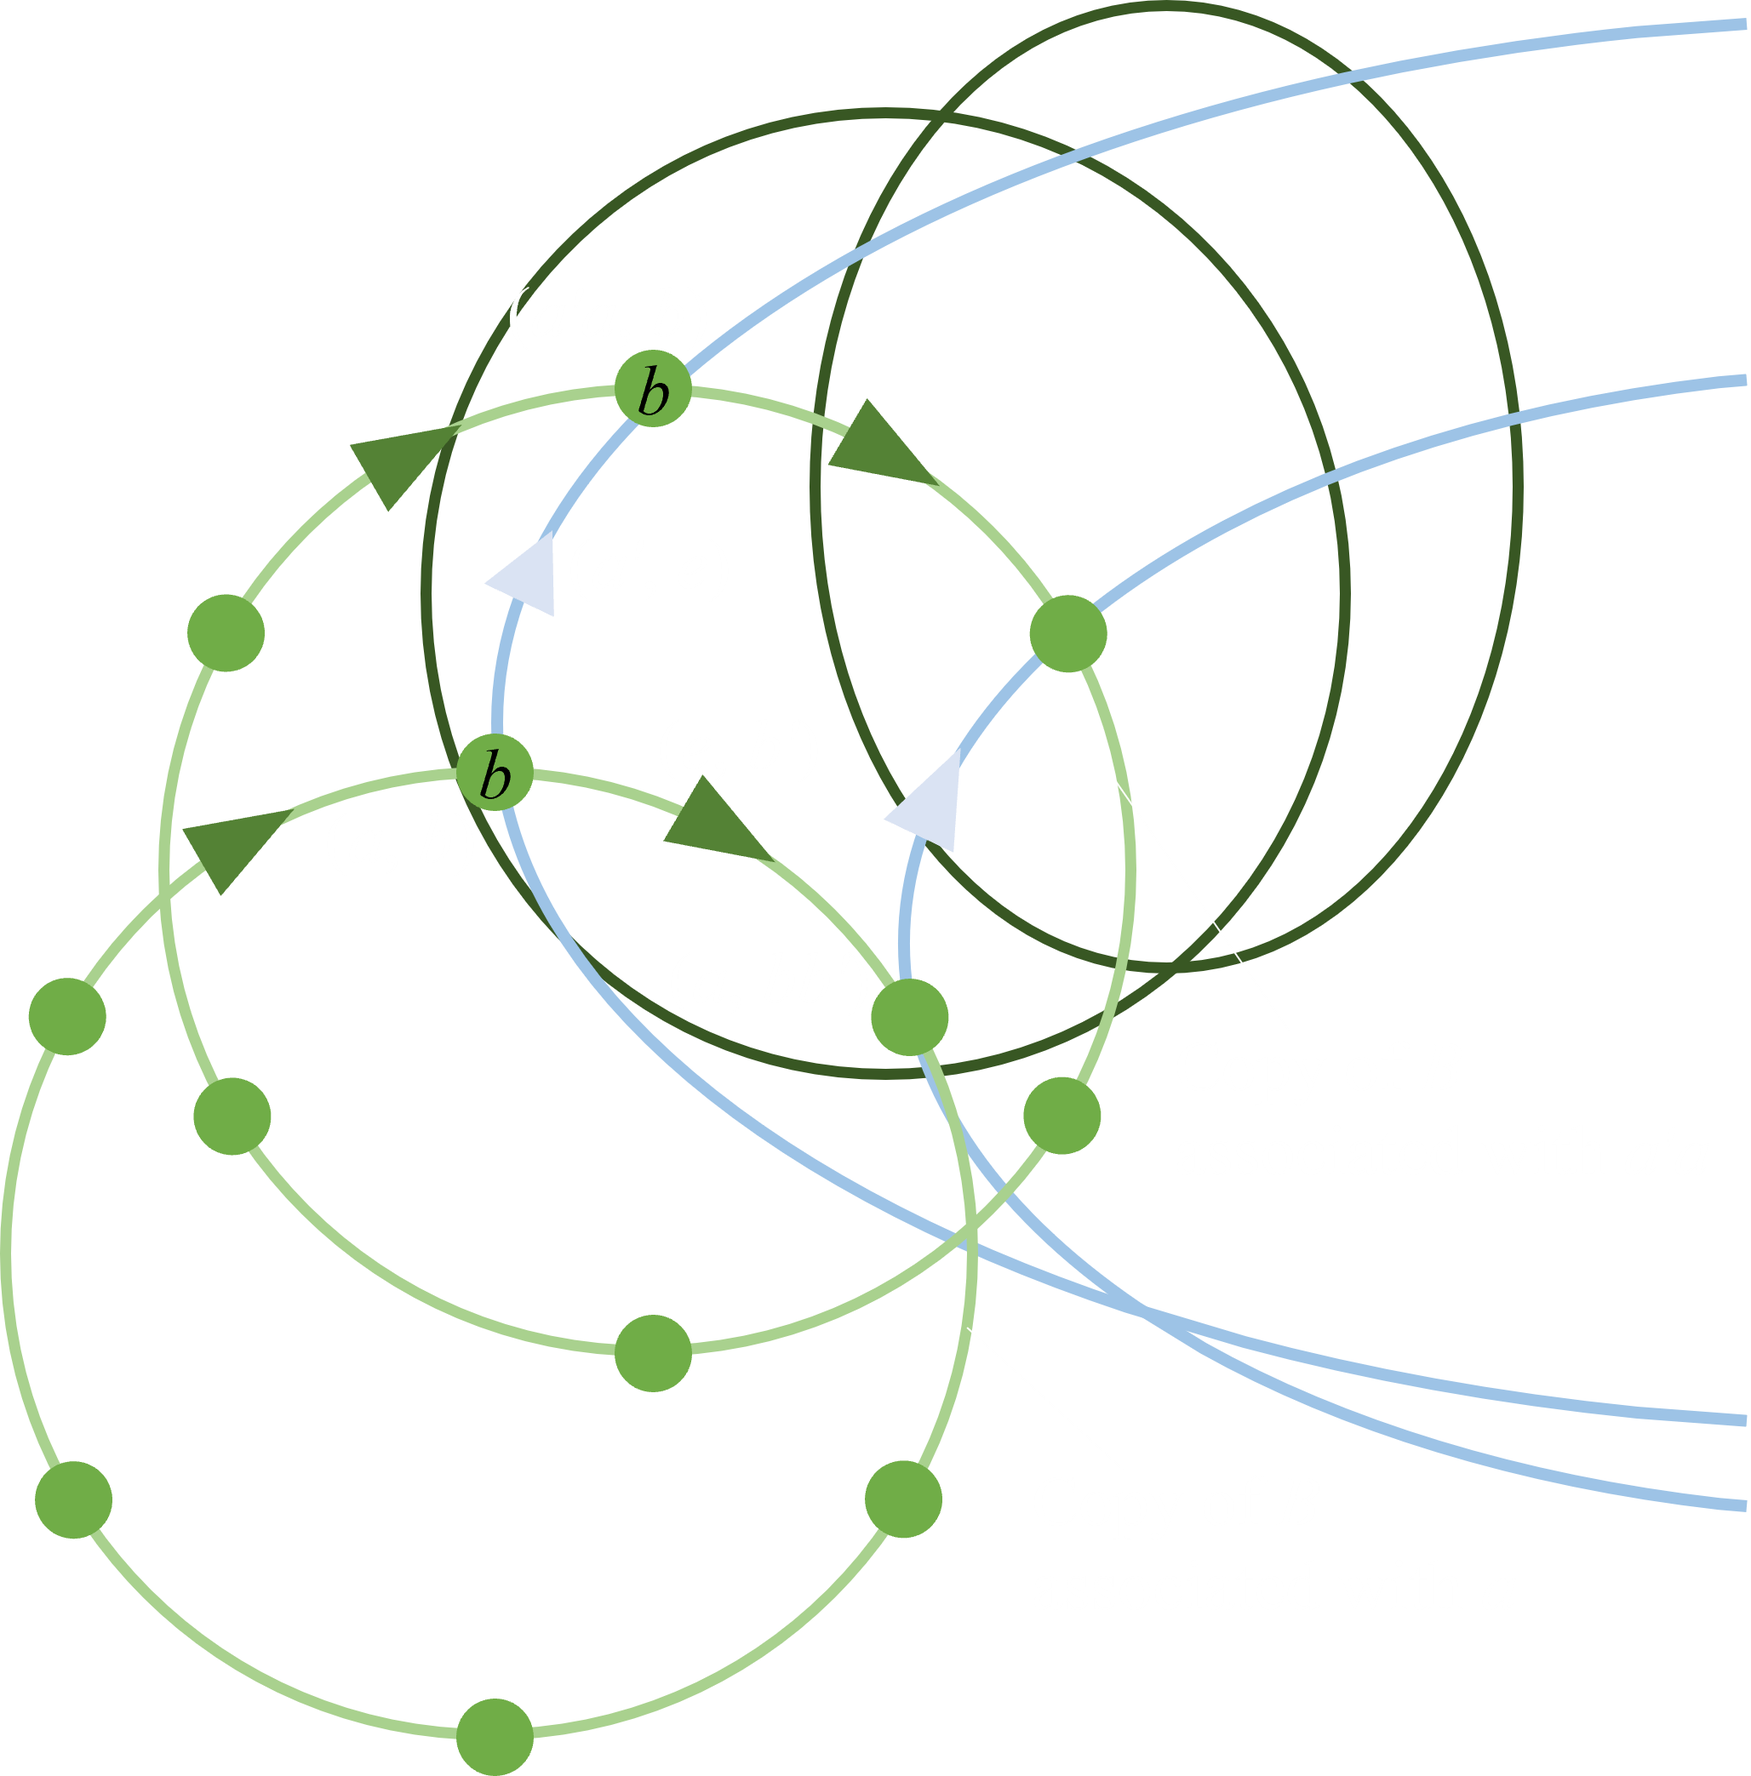
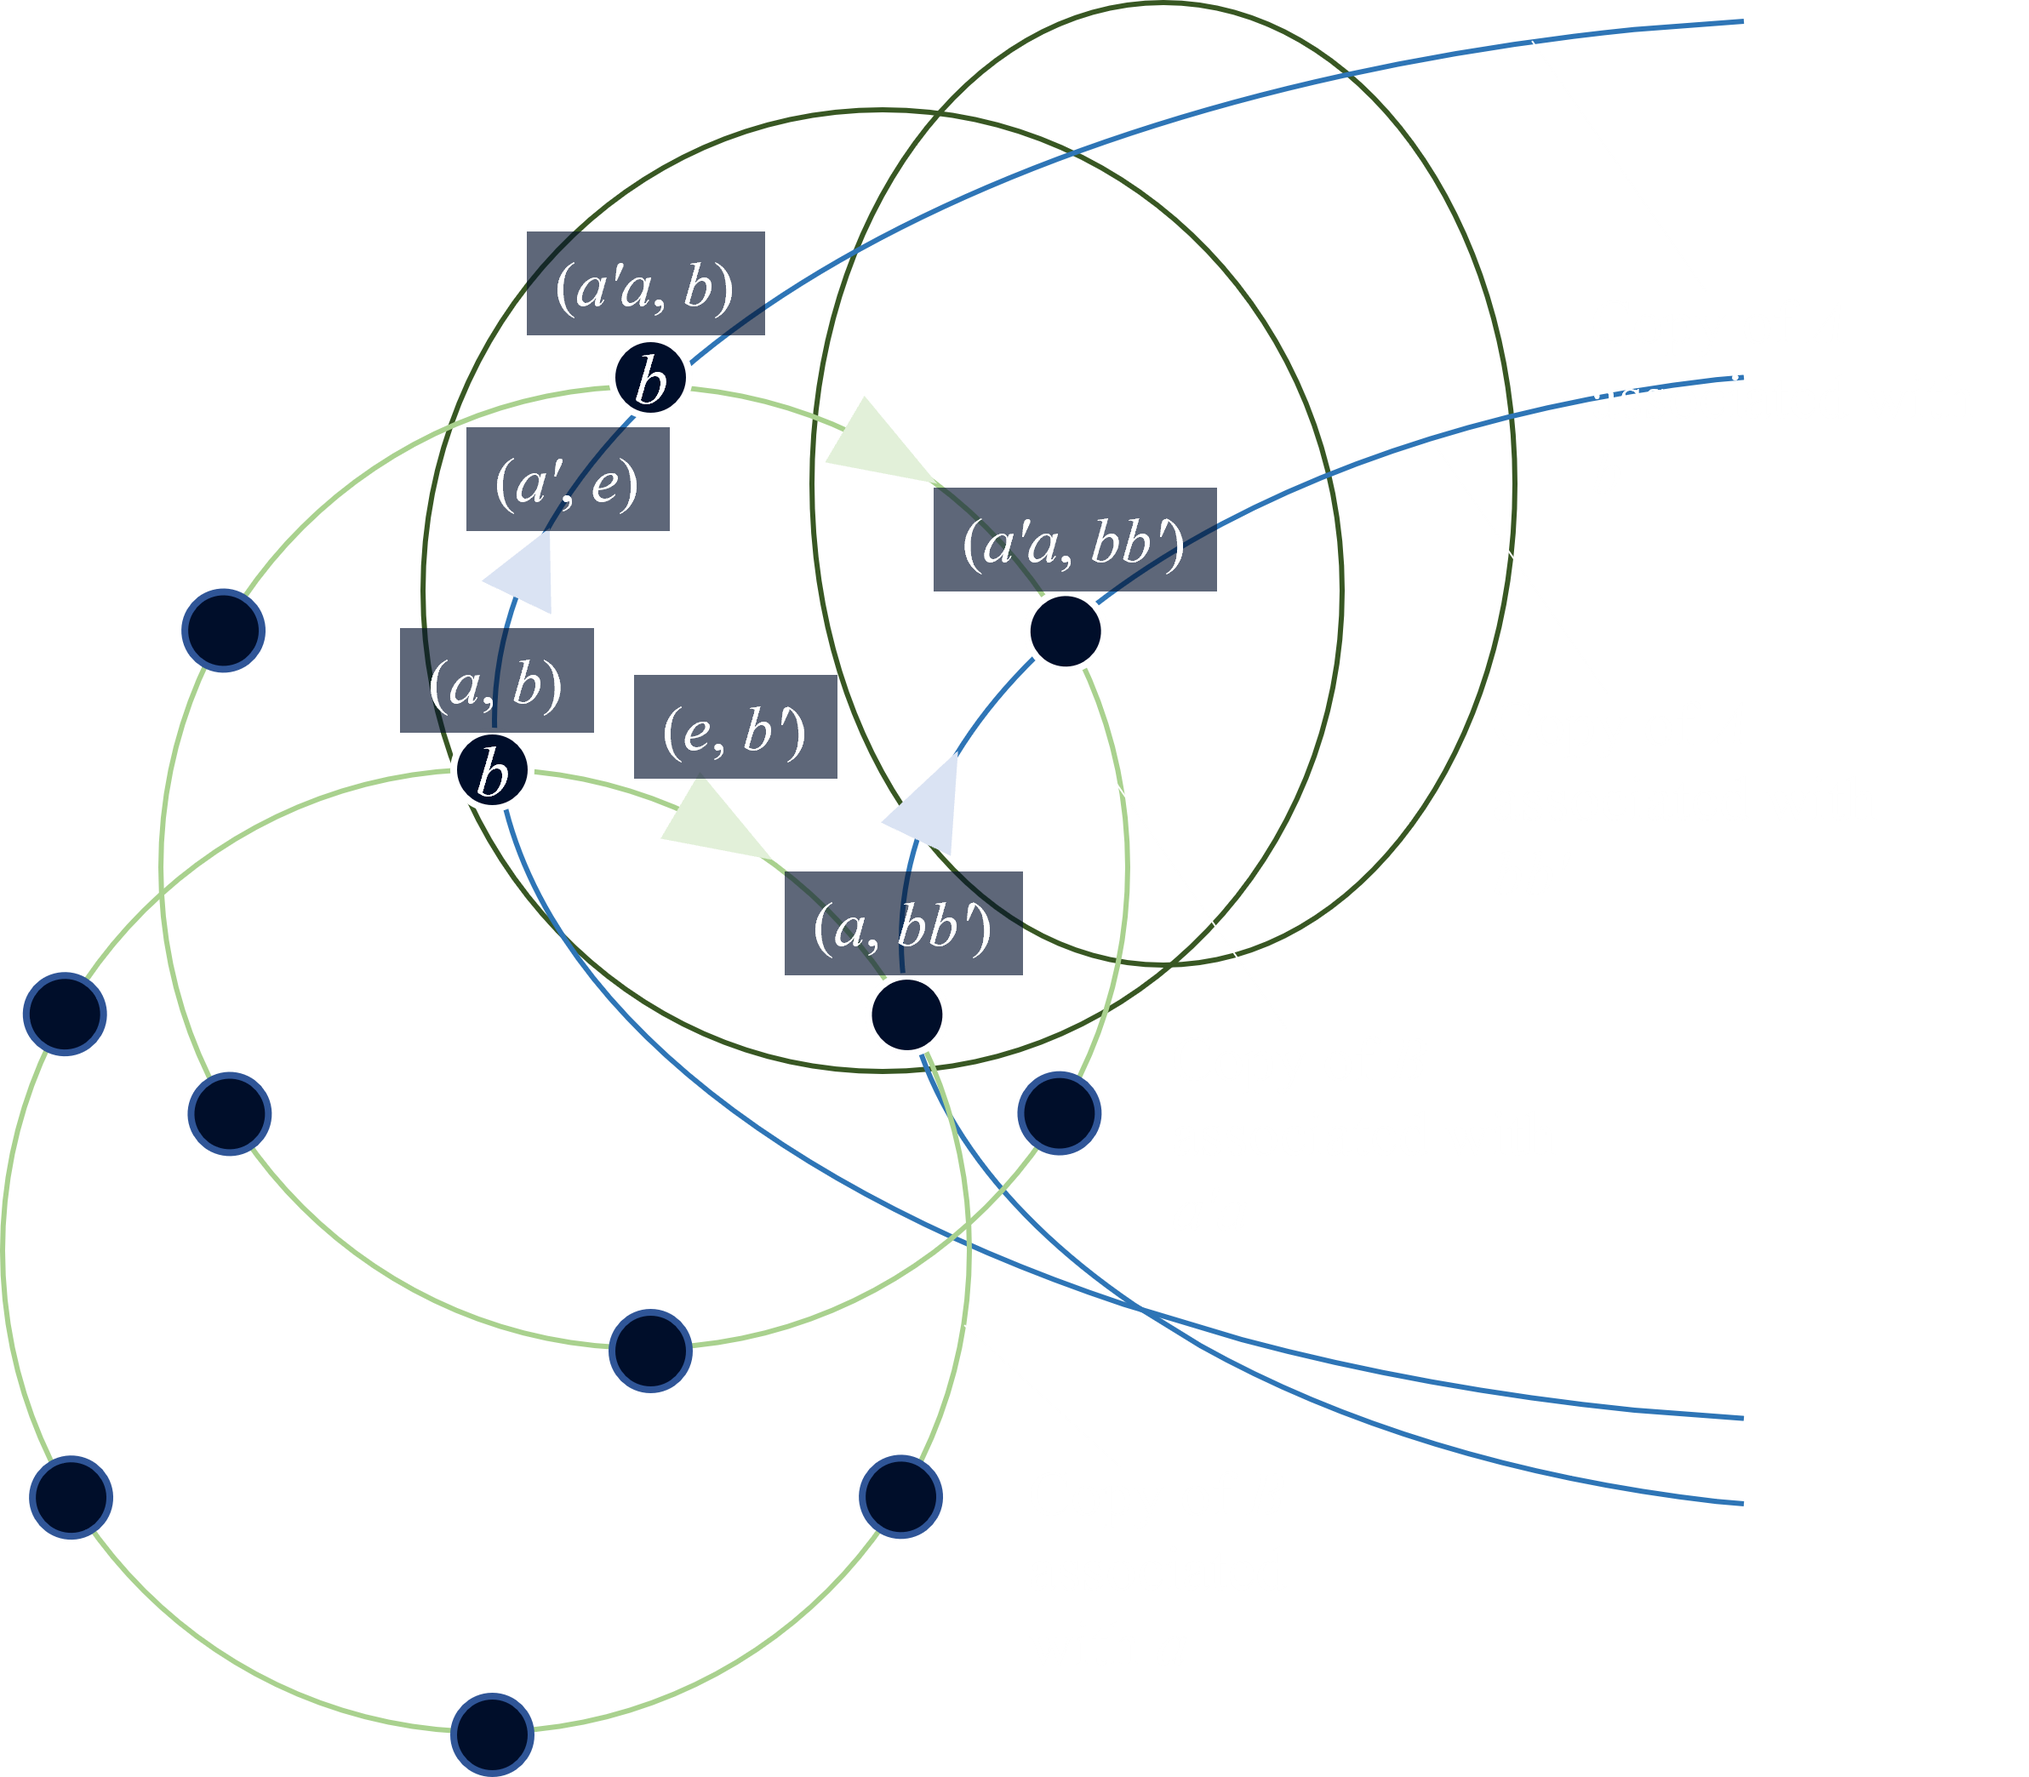
WIP

diff --git a/_posts/2023-07-15-plotting-cayley-graphs.md b/_posts/2023-07-15-plotting-cayley-graphs.md
@@ -239,7 +239,7 @@ window.addEventListener("load", () =>
           const pltt = plot2(rot4, G1, "60_5");
           const linkforcectxx = pltt.d3Force('link');
           const a = window.setInterval(() => {
-            linkforcectxx.distance(d => [0, 200][d.group]);
+            linkforcectxx.distance(d => [0, 280][d.group]);
             pltt.d3ReheatSimulation()
           }, 6000);
           const woof = window.setInterval(() => {
@@ -254,6 +254,26 @@ window.addEventListener("load", () =>
         const d1 = document.getElementById("plot-direct-1")
         attach(onVisibilityChange(d1, function() {
           plot(d1, "200_37")
+        }));
+
+        const d2 = document.getElementById("plot-semi-2")
+        attach(onVisibilityChange(d2, function() {
+          const plt = plot(d2, "12_4")
+        }));
+
+        const d3 = document.getElementById("plot-semi-1")
+        attach(onVisibilityChange(d3, function() {
+          [_gmat, _fp] = matrep["12_5"];
+          _G = create_group(_gmat, _fp);
+          _Ggens = _G.gens;
+          _Ggens = [_Ggens[1], _Ggens[0]];
+          const G1 = new Group(_Ggens.map((g) => g.mat));
+          const plt = plot2(d3, G1, "12_5");
+        }));
+
+        const d4 = document.getElementById("plot-semi-3")
+        attach(onVisibilityChange(d4, function() {
+          const plt = plot(d4, "208_3")
         }));
       })
     )
@@ -408,8 +428,6 @@ Do note that the Cayley graph for a group might not look unique, and is highly d
 
 Say you start with a square and consider the set of rotations that fixes the position of the vertices.
 
-<!--TODO: Hand drawn image-->
-
 The rotations consist of rotating 0, 90, 180, and 270 degrees. These rotations form a group, the cyclic group $C_4$, generated by 90 degree rotations. This is known as the _rotation group_ of a square. The Cayley Graph of this rotation group looks exactly like a square:
 
 <div class="cayley-container">
@@ -424,9 +442,7 @@ Similarly to the square example, the Cayley Graph of the rotation group of a reg
 
 Does this observation extend to 3D? To put it precisely, are the finite subgroups of $\mathrm{SO}(3)$ rotation groups of some 3D shape, and do the Cayley Graphs of these rotation groups resemble the underlying 3D shape? 
 
-$\mathrm{SO}(2)$ is contained in $\mathrm{SO}(3)$, i.e., the set of 2D rotations can be found in the set of 3D rotations. So the finite subgroups of $\mathrm{SO}(3)$ would contain the cyclic groups $C_n$. In addition, $\mathrm{SO}(3)$ contains the _dihedral groups_ $D_n$, the set of rotations and reflections of a regular $2n$-gon. This is because we can perform a "flip" (or reflection) of a 2D shape by flipping it through the third dimension:
-
-<!--TODO: Handdrawn diagram-->
+$\mathrm{SO}(2)$ is contained in $\mathrm{SO}(3)$, i.e., the set of 2D rotations can be found in the set of 3D rotations. So the finite subgroups of $\mathrm{SO}(3)$ would contain the cyclic groups $C_n$. In addition, $\mathrm{SO}(3)$ contains the _dihedral groups_ $D_n$, the set of rotations and reflections of a regular $2n$-gon. This is because we can perform a "flip" (or reflection) of a 2D shape by flipping it through the third dimension.
 
 However, these subgroups are kinda boring. They mostly take place in a single plane of existence (a 2D plane), and don't really 'fully utilise' 3D space.
 
@@ -499,21 +515,42 @@ In a group $A \times B$, we have $(a', e) \cdot (a, b) = (a'a, b)$ where $e$ is 
 <img style="max-width:600px;" src="/assets/posts/2023-07-15-plotting-cayley-graphs/universe.png">
 </center>
 
-This explains the donut shape of $C_{10} \times C_{20}$. In the Cayley Graph of $A \times B$, all copies of the element $a \in A$ are strung together, and similarly for all elements of $b \in B$. Try [plotting other direct products](https://juliapoo.github.io/Cayley-Graph-Plotting/) and play with the edge lengths and see if you can spot this pattern.
+In the case of the Cayley graph of $C_{10} \times C_{20}$, we have a generator for $A = C_{10}$ which we denote as $(a', e)$, and similarly a generator for $B = C_{20}$, denoted as $(e, b')$. These generators correspond to the two edges of different colours. 
+
+In the Cayley Graph of $A \times B$, all copies of a fixed element $a \in A$ are strung together by generators in $B$, and similarly for all elements of $b \in B$. For $C_{10} \times C_{20}$, this forms the donut shape.
+
+Try [plotting other direct products](https://juliapoo.github.io/Cayley-Graph-Plotting/) and play with the edge lengths and see if you can spot this pattern.
 
 ## Semi-direct Products
 
 Direct products are a special case of a more general way of constructing larger groups from smaller ones: Semi-direct products.
 
-Semi-direct products introduce an additional construct to direct products, which we'll call a _twist_ and denote with the symbol $\psi$. We'll denote a semi-direct product of groups $A$ and $B$ with the twist $\psi$ as the group $G = A \ltimes_\psi B$. What $\psi$ is precisely will be described later. First, I'll illustrate the concept of a _twist_ via Cayley Graphs.
+Semi-direct products introduce an additional construct to direct products, which we'll call a _twist_ and denote with the symbol $\psi$. We'll denote a semi-direct product of groups $A$ and $B$ with the twist $\psi$ as the group $G = A \rtimes_\psi B$. What $\psi$ is precisely will be described later. The structure of $G$ is now dependent on $A$, $B$, and the choice of the twist $\psi$. We'll eventually show that a 'trivial' choice of $\psi$ results in a direct product. First, I'll illustrate the concept of a _twist_ via Cayley Graphs.
 
-<!--TODO: cool diagram-->
+It's best to see the twist by example. Consider the Cayley Graph of two groups, $C_6 \times C_2$ and $C_6 \rtimes_\phi C_2$ (another name for this is $D_6$):
 
-Now we try to derive semi-direct products as a generalisation of direct products from scratch. First, some terminology. I represent an element of $G = A \ltimes_\psi B$ similarly to direct products: as a tuple $(a,b)$ where $a \in A$ and $b \in B$. I'll refer to $a$ as the $A$-component of $(a,b)$ (and similarly for the $B$-component). As we attempt to generalise direct products into semi-direct products, we attempt to generalise the group operation of $G$. 
+<div class="cayley-container">
+<div id="plot-semi-1" class="cayley-uwu" style="width:calc((100% - 2em)/2); height: 400px;"></div>
+<div id="plot-semi-2" class="cayley-uwu" style="width:calc((100% - 2em)/2); height: 400px;"></div>
+</div>
+
+They look the same, except for the direction of the arrows. In $C_6 \times C_2$, both rings have arrows pointing in the same direction, but in $D_6$ that's not the case.
+
+One way to understand what's going on here is to view the twist $\psi$ as changing the rules of how one travels across different copies of $A$ (in this case it's $C_6$). Instead of traveling to the same element upon changing copies of $A$, i.e., $(e, b')\cdot(a,b) = (a,b'b)$ (as in the case of direct products), we travel to a different element of $A$, i.e., $(e,b') \cdot (a,b) = (x, b'b)$ where $x$ need not equal to $a$. This "twist" is illustrated below:
+
+<center>
+<img style="max-width:100%;" src="/assets/posts/2023-07-15-plotting-cayley-graphs/universe2.png">
+</center>
+
+Notice that in the second image, one can move the edges and nodes around to form the Cayley plot of $D_6$.
+
+We'd see later, the group structure of $A \rtimes_\psi B$ constraints what $\psi$ can look like, to the point where the two illustrated twists are the only two possible for $C_6$ and $C_2$.
+
+Now we try to derive semi-direct products as a generalisation of direct products from scratch. I represent an element of $G = A \rtimes_\psi B$ similarly to direct products: as a tuple $(a,b)$ where $a \in A$ and $b \in B$. I'll refer to $a$ as the $A$-component of $(a,b)$ (and similarly for the $B$-component). As we attempt to generalise direct products into semi-direct products, we will attempt to generalise the group operation of $G$.
 
 Let's embed the group operation of $A$ into $G$. We require that $(a', e) \cdot (a,b) = (a'a,b)$, i.e., the left multiplication with elements with no $A$-component is equivalent to the group operation of $A$. Left multiplication with $(a',e)$ can be interpreted as traveling within the same copy of $A$. When doing so, we respect the group operations of $A$ (similar to direct products).
 
-Similarly, let's also embed the group operation of $B$ into $G$ by requiring that $(a,b) \cdot (e,b') = (a, bb')$, i.e., the right multiplication with elements with no $B$-component is equivalent to the group operation of $B$. This is my interpretation of the "semi" in "semi-direct product":
+Similarly, let's also embed the group operation of $B$ into $G$ by requiring that $(a,b) \cdot (e,b') = (a, bb')$, i.e., the right multiplication with elements with no $B$-component is equivalent to the group operation of $B$. This is my interpretation of the prefix "semi" in "semi-direct product":
 
 $$
 \begin{aligned}
@@ -544,7 +581,7 @@ $$
 
 As we vary $a$ across all elements of $A$, we would expect $x$ to vary across all elements in $A$, i.e., when we travel to another copy of $A$, it should be possible to land in any element of $A$ by starting in a different element of $A$ in the previous copy. Another way to describe this is that $f_{b'}: A \rightarrow A$ is [_bijective_](https://en.wikipedia.org/wiki/Bijection).
 
-We want our choice of $f_{b'}$ to ensure that $G$ is still a group. So we must have the following chain of equalities hold:
+We want our choice of $f_{b'}$ to ensure that $G$ is still a group, so we must have the following chain of equalities hold:
 
 $$
 \begin{aligned}
@@ -571,7 +608,7 @@ This property of $f_{b'}$ can be seen as preserving the group operation of $A$, 
 
 Mappings that satisfy such a constraint are called _homomorphisms_. In particular, $f_{b'}$ is both a bijection from $A$ into itself and a homomorphism. Such maps are called _automorphisms_ of $A$, and you can think of such maps as simply renaming the elements of $A$. The set of automorphisms of $A$ forms a group $\mathrm{Aut}(A)$, where the identity of $\mathrm{Aut}(A)$ is the "do-nothing" function $\mathrm{id}(x) = x$, and the group operation $\circ$ is function composition: For $f,g \in \mathrm{Aut}(A)$, $(f \circ g)(x) = f(g(x))$. (Try verifying this for yourself).
 
-We should also analyse how $f_b$ of different $b \in B$ interact:
+We should also determine how $f_b$ of different $b \in B$ should interact:
 
 $$
 \begin{aligned}
@@ -605,22 +642,37 @@ $$
 &= (a'f_{b'}(a), b'b) &\text{rule 1.1} \\
 &= (a' \psi(b')(a), b'b) &\text{definition of }\psi \\
 \\
-&\implies (a',b')\cdot(a,b) = (a' \psi(b')(a), b'b)
+&\implies (a',b')\cdot(a,b) = (a' \; \psi(b')(a), b'b)
 \end{aligned}
 $$
+
+It turns out, this description of the group operation of $G$ is sufficient to prove that $G$ is indeed a group (try it!).
+
+In summary, our choice of asserting that rule 1.1 and 1.2 holds forces us to the following definition of semi-direct product:
+
+> Let $G$ be a semi-direct product of $A$ and $B$ with respect to the twist $\psi$, where $\psi: B \rightarrow \mathrm{Aut}(A)$ is a homomorphism. We denote $G$ as $G = A \rtimes_\psi B$, and define the group operation on $G$ to be
+> 
+> $$
+> (a',b')\cdot(a,b) = (a' \; \psi(b')(a), b'b)
+> $$
 
 Note that if we define $\psi$ to map all of $B$ into the do-nothing function $\mathrm{id}$, we would have
 
 $$
 \begin{aligned}
 &(a',b')\cdot(a,b) \\
-&= (a' \psi(b')(a), b'b) \\
+&= (a'\;\psi(b')(a), b'b) \\
 &= (a'a, b'b)
 \end{aligned}
 $$
 
-And our semi-direct product reduces into a direct product. Hence direct products are simply a subset of semi-direct products.
+And our semi-direct product reduces into a direct product. Hence direct products are simply a special case of semi-direct products.
 
+Unfortunately, not all twists are that easily visualisable. Take for instance $C_{13} \rtimes_{\psi} C_{16}$ where the twist causes the donut to look really weird:
+
+<div class="cayley-container">
+<div id="plot-semi-3" class="cayley-uwu" style="width:calc(100% - 2em); height: 500px;"></div>
+</div>
 
 <!--TODO-->
 
